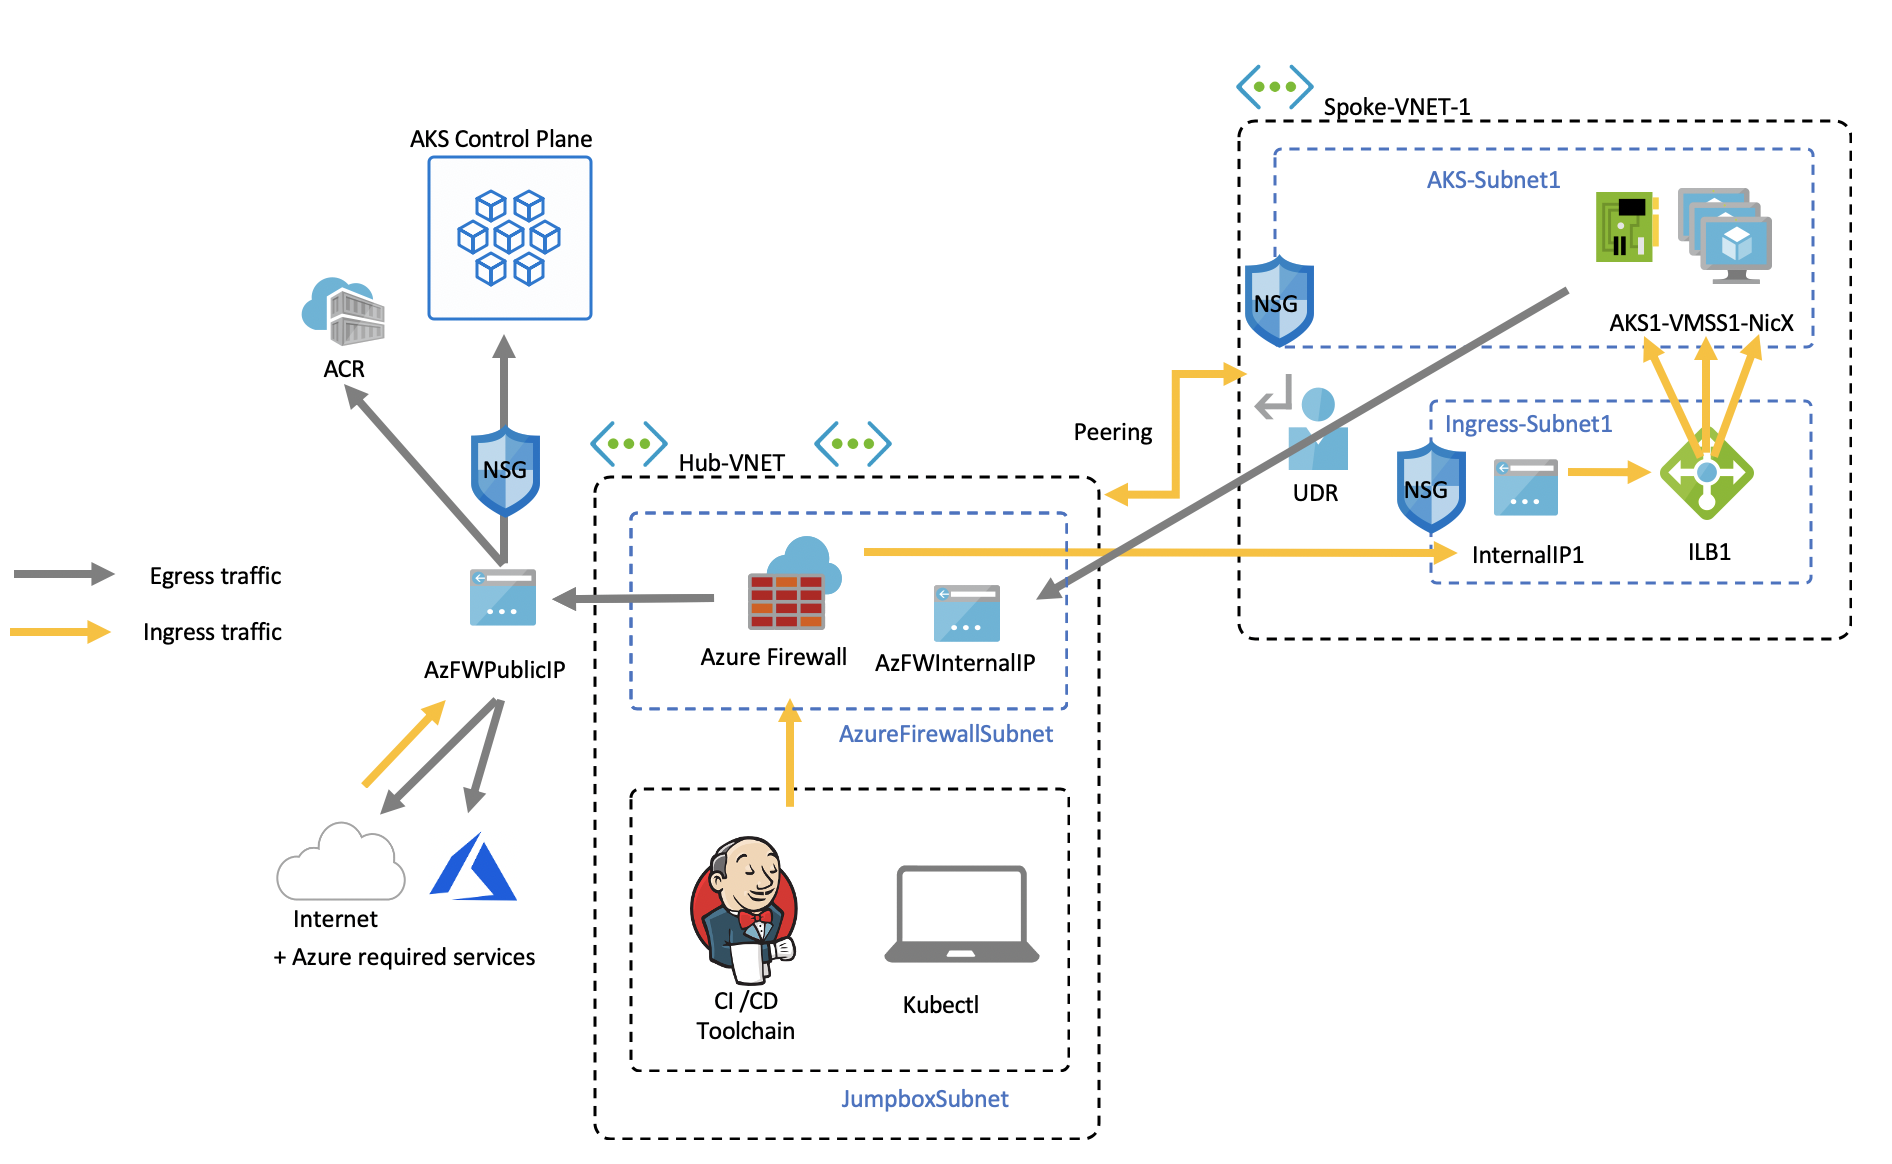
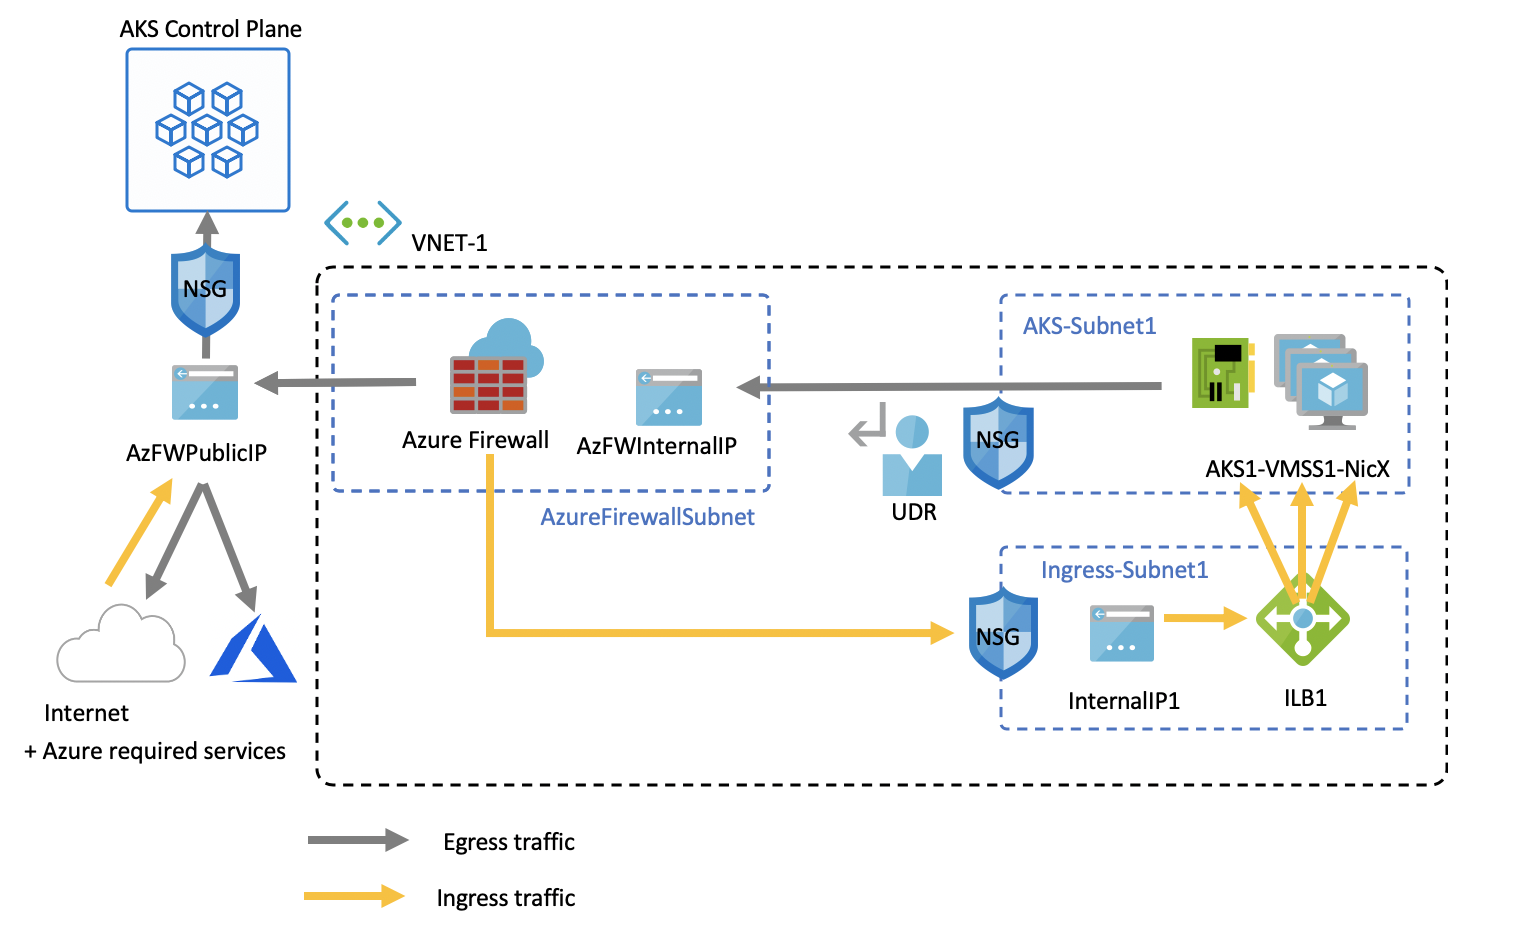
simplified, updated images, finalized conceptual content

diff --git a/articles/aks/egress-outboundtype.md b/articles/aks/egress-outboundtype.md
@@ -88,9 +88,15 @@ Below is a network topology deployed in AKS clusters by default, which use an `o
 
 To illustrate the application of a cluster with outbound type using a user defined route, a cluster can be configured on a virtual network peered with an Azure Firewall.
 
-Azure resources are isolated in dedicated subnets and route inbound traffic from the Azure Firewall to an internal load balancer created with the AKS cluster. Egress from the AKS cluster follows a UDR which defines the next hop to the Azure Firewall. All cluster egress is handled strictly through the firewall.
-
 ![Locked down topology](media/egress-outboundtype/outboundtype-udr.png)
+
+* Ingress is forced to flow through firewall filters
+   * An isolated subnet holds an internal load balancer for routing into agent nodes
+   * Agent nodes are isolated in a dedicated subnet
+* Outbound requests start from agent nodes to the Azure Firewall internal IP using a user defined route
+   * Azure Firewall egresses out of the virtual network from a public IP frontend
+   * Access to the AKS control plane is protected by an NSG, which has enabled the firewall frontend IP address
+   * Access to the public internet or other Azure services flows to and from the firewall frontend IP address
 
 ### Set configuration via environment variables
 
@@ -101,6 +107,7 @@ PREFIX="contosofin"
 RG="${PREFIX}-rg"
 LOC="eastus"
 NAME="${PREFIX}outboundudr"
+AKS_NAME="${NAME}aks"
 ACR_NAME="${NAME}acr"
 VNET_NAME="${PREFIX}vnet"
 AKSSUBNET_NAME="${PREFIX}akssubnet"
@@ -118,18 +125,22 @@ Next, set subscription IDs.
 
 ```azure-cli
 # Get ARM Access Token and Subscription ID - This will be used for AuthN later.
+
 ACCESS_TOKEN=$(az account get-access-token -o tsv --query 'accessToken')
 
 # NOTE: Update Subscription Name
 # Set Default Azure Subscription to be Used via Subscription ID
+
 az account set -s <SUBSCRIPTION_ID_GOES_HERE>
 
 # NOTE: Update Subscription Name for setting SUBID
+
 SUBID=$(az account show -s '<SUBSCRIPTION_NAME_GOES_HERE>' -o tsv --query 'id')
 ```
 
-## Create virtual networks and subnets
-To begin we will provision a virtual network with two separate subnets.
+## Create a virtual network with multiple subnets
+
+To begin we will provision a virtual network with three separate subnets, one for the cluster, one for the firewall, and one for service ingress.
 
 ![Empty network topology](media/egress-outboundtype/empty-network.png)
 
@@ -137,13 +148,15 @@ First, create a resource group to hold all of the resources in this scenario.
 
 ```azure-cli
 # Create Resource Group
+
 az group create --name $RG --location $LOC
 ```
 
 Create a two virtual networks to host the AKS cluster and the Azure Firewall. Each will have their own subnet. Let's start with the AKS network.
 
 ```
-# Dedicated virtual network for AKS cluster
+# Dedicated virtual network with AKS subnet
+
 az network vnet create \
     --resource-group $RG \
     --name $VNET_NAME \
@@ -152,16 +165,15 @@ az network vnet create \
     --subnet-prefix 100.64.1.0/24
 
 # Dedicated subnet for K8s services
+
 az network vnet subnet create \
     --resource-group $RG \
     --vnet-name $VNET_NAME \
     --name $SVCSUBNET_NAME \
     --address-prefix 100.64.2.0/24
-```
 
-Now let's create the Firewall network.
-```
 # Dedicated subnet for Azure Firewall (Firewall name cannot be changed)
+
 az network vnet subnet create \
     --resource-group $RG \
     --vnet-name $VNET_NAME \
@@ -169,11 +181,11 @@ az network vnet subnet create \
     --address-prefix 100.64.3.0/24
 ```
 
-## Create an Azure Firewall with a public endpoint
+## Create and setup an Azure Firewall with a UDR
+
+This section walks through setting up Azure Firewall inbound and outbound rules. The main purpose of the firewall is to enable organizations to set up granular ingress and egress traffic rules into and out of the AKS Cluster.
 
 ![Firewall and UDR](media/egress-outboundtype/firewall-udr.png)
-
-This section walks through setting up Azure Firewall inbound and outbound rules. The main purpose of the firewall is to enable organizations to set up ingress and egress traffic rules for the AKS Cluster.
 
 Create a standard SKU public IP resource which will be used as the Azure Firewall frontend address.
 
@@ -183,19 +195,24 @@ az network public-ip create -g $RG -n $FWPUBLICIP_NAME -l $LOC --sku "Standard"
 
 Register the preview cli-extension to create an Azure Firewall.
 ```azure-cli
-# Install Azure Firewall preview CLI extension
+## Install Azure Firewall preview CLI extension
+
 az extension add --name azure-firewall
 
-# Deploy Azure Firewall
+## Deploy Azure Firewall
+
 az network firewall create -g $RG -n $FWNAME -l $LOC
 ```
 
 The IP address created earlier can now be assigned to the firewall frontend.
 > [!NOTE]
 > Setup of the public IP address to the Azure Firewall may take a few minutes.
+> 
+> If errors are repeatedly received on the below command, delete the existing firewall and public IP and  provision the Public IP and Azure Firewall through the portal at the same time.
 
 ```azure-cli
 ## Configure Firewall IP Config
+
 az network firewall ip-config create -g $RG -f $FWNAME -n $FWIPCONFIG_NAME --public-ip-address $FWPUBLICIP_NAME --vnet-name $VNET_NAME
 ```
 
@@ -203,45 +220,34 @@ When the previous command has succeeded, save the firewall frontend IP address f
 
 ```bash
 ## Capture Firewall IP Address for Later Use
+
 FWPUBLIC_IP=$(az network public-ip show -g $RG -n $FWPUBLICIP_NAME --query "ipAddress" -o tsv)
 FWPRIVATE_IP=$(az network firewall show -g $RG -n $FWNAME --query "ipConfigurations[0].privateIpAddress" -o tsv)
 ```
 
-Now we can create a UDR and route table for the Azure Firewall.
+### Create a UDR with a hop to Azure Firewall
+
+Azure automatically routes traffic between Azure subnets, virtual networks, and on-premises networks. If you want to change any of Azure's default routing, you do so by creating a route table.
+
+Create an empty route table to be associated with a given subnet. This will define the next hop as the Azure Firewall created above. Each subnet can have zero or one route table associated to it.
 
 ```azure-cli
-# Create UDR & Routing Table for Azure Firewall
+# Create UDR and add a route for Azure Firewall
+
 az network route-table create -g $RG --name $FWROUTE_TABLE_NAME
 az network route-table route create -g $RG --name $FWROUTE_NAME --route-table-name $FWROUTE_TABLE_NAME --address-prefix 0.0.0.0/0 --next-hop-type VirtualAppliance --next-hop-ip-address $FWPRIVATE_IP --subscription $SUBID
 ```
 
-### Create a UDR for AKS to hop to Azure Firewall
-
-Azure automatically routes traffic between Azure subnets, virtual networks, and on-premises networks. If you want to change any of Azure's default routing, you do so by creating a route table.
-
-Create a route table for the Azure Firewall to reach the public internet.
-
-```azure-cli
-az network route-table create -g $RG --name $FWROUTE_TABLE_NAME
-```
-
-We can now add a route to each route-table, one for the cluster and one for the firewall. The cluster's route connects the AKS cluster to the Azure Firewall. The firewall's route defines a path to the public internet.
-
-Each subnet can have zero or one route table associated to it.
-
-```azure-cli
-az network route-table route create -g $RG --name $FWROUTE_NAME --route-table-name $FWROUTE_TABLE_NAME --address-prefix 0.0.0.0/0 --next-hop-type VirtualAppliance --next-hop-ip-address $FWPRIVATE_IP
-az network route-table route create -g $RG --name $FWROUTE_NAME_INTERNET --route-table-name $FWROUTE_TABLE_NAME --address-prefix $FWPUBLIC_IP/32 --next-hop-type Internet
-```
-
 To learn more about how to create custom, or user-defined, routes read [virtual network documentation](https://docs.microsoft.com/azure/virtual-network/virtual-networks-udr-overview#user-defined) about how you can override Azure's default system routes or add additional routes to a subnet's route table.
 
-## Examples of adding network firewall rules
+## Adding network firewall rules
 
-> [!IMPORTANT]
-> All egress endpoints must be enabled for access, defined in the [required egress endpoints](egress.md) for AKS. Read this document carefully and add all necessary endpoints for your cluster. Without these endpoints enabled, your cluster cannot operate.
+> [!WARNING]
+> This document shows one example of adding a firewall rule. All egress endpoints defined in the [required egress endpoints](egress.md) must be enabled by application firewall rules for AKS clusters to function. Read this document carefully and add all necessary rules to your firewall. Without these endpoints enabled, your cluster cannot operate.
 
-To show an example rule, a firewall can be added to enable access to Miccrosoft Container Registry (MCR).
+Below is an example of a network and application rule. We add a network rule which allows any protocol, source-address, destination-address, and destination-ports. We also add an application rule for **some** of the endpoints required by AKS.
+
+In a production scenario, you should only enable access to required endpoints for your application and those defined in [AKS required egress](egress.md).
 
 ```
 # Add Network FW Rules
@@ -250,23 +256,44 @@ az network firewall network-rule create -g $RG -f $FWNAME --collection-name 'aks
 
 # Add Application FW Rules
 # IMPORTANT: Add AKS required egress endpoints
-az network firewall application-rule create -g $RG -f $FWNAME --collection-name 'aksfwar' -n 'fqdn' --source-addresses '*' --protocols 'http=80' 'https=443' --target-fqdns '*' --action allow --priority 100
+
+az network firewall application-rule create -g $RG -f $FWNAME \
+    --collection-name 'AKS_Global_Required' \
+    --action allow \
+    --priority 100 \
+    -n 'required' \
+    --source-addresses '*' \
+    --protocols 'http=80' 'https=443' \
+    --target-fqdns \
+        'aksrepos.azurecr.io' \
+        '*blob.core.windows.net' \
+        'mcr.microsoft.com' \
+        '*cdn.mscr.io' \
+        '*.data.mcr.microsoft.com' \
+        'management.azure.com' \
+        'login.microsoftonline.com' \
+        'ntp.ubuntu.com' \
+        'packages.microsoft.com' \
+        'acs-mirror.azureedge.net'
 ```
 
 To learn more about Azure Firewall rules, visit the [Azure Firewall documentation](https://docs.microsoft.com/azure/firewall/overview).
 
-## Associate the AKS subnet to Azure Firewall
+## Associate the AKS Subnet to the firewall
 
-To connect egress from the cluster, the dedicated subnet for the AKS cluster must be associated with the Azure Firewall. This can be done by issuing a command to the virtual network holding both the cluster and firewall to update the route table of the cluster's subnet.
+To associate the cluster with firewall, the dedicated subnet for the cluster's subnet must reference the route table created above. This can be done by issuing a command to the virtual network holding both the cluster and firewall to update the route table of the cluster's subnet.
 
 ```azure-cli
 # Associate AKS Subnet to FW
+
 az network vnet subnet update -g $RG --vnet-name $VNET_NAME --name $AKSSUBNET_NAME --route-table $FWROUTE_TABLE_NAME
 ```
 
 ## Deploy AKS with outbound type of UDR to the existing network
 
-![aks-deploy](media/egress-outboundtype/aks-deployed.png)
+Now an AKS cluster can be deployed into the existing virtual network setup. In order to set a cluster outbound type to user defined routing, an existing subnet must be provided to AKS.
+
+![aks-deploy](media/egress-outboundtype/outboundtype-udr.png)
 
 ### Create a service principal with access to provision inside the existing virtual network
 
@@ -275,11 +302,11 @@ This section walks through creating a Service Principal which will be used by AK
 ```azure-cli
 # Create SP and Assign Permission to Virtual Network
 az ad sp create-for-rbac -n "${PREFIX}sp" --skip-assignment
+```
 
-# ********************************************************************************
-# Take the SP Creation output from above command and fill in Variables accordingly
-# ********************************************************************************
+Now replace the `APPID` and `PASSWORD` below with the service principal appid and service principal password autogenerated by the previous command output. We will reference the VNET resource ID to grant the permissions to the service principal so AKS can deploy resources into it.
 
+```azure-cli
 APPID="<SERVICE_PRINCIPAL_APPID_GOES_HERE>"
 PASSWORD="<SERVICEPRINCIPAL_PASSWORD_GOES_HERE>"
 VNETID=$(az network vnet show -g $RG --name $VNET_NAME --query id -o tsv)
@@ -300,28 +327,26 @@ We will define the outbound type to follow the UDR which exists on the subnet, e
 We will also add the AKS feature for [API server authorized IP ranges](api-server-authorized-ip-ranges.md) to limit API server access to only the firewall's public endpoint. This is denoted in the diagram as the NSG which must be passed to access the control plane. When enabling this feature to limit API server access, your developer tools must use a jumpbox from the firewall's virtual network or you must add all developer endpoints to the authorized IP range.
 
 ```azure-cli
-az aks create -g $RG -n $AKSNAME -l $LOC \
+az aks create -g $RG -n $AKS_NAME -l $LOC \
   --node-count 3 \
-  --network-plugin $PLUGIN --generate-ssh-keys \
-  --network-policy azure \
-  --service-cidr $BASE_ADDRESS.5.0/24 \
-  --dns-service-ip $BASE_ADDRESS.5.10 \
-  --docker-bridge-address 172.17.0.1/16 \
-  --vnet-subnet-id $SUBNETID \
+  --network-plugin azure --generate-ssh-keys \
+  --service-cidr 192.168.0.0/16 \
+  --dns-service-ip 192.168.0.10 \
+  --docker-bridge-address 172.22.0.1/29 \
+  --vnet-subnet-id $AKSSUBNET_NAME \
   --service-principal $APPID \
   --client-secret $PASSWORD \
   --load-balancer-sku standard \
-  --outbound-type userDefinedRouting
-  --api-server-authorized-ip-ranges <INSERT FIREWALL IP RANGE> \
+  --outbound-type userDefinedRouting \
+  --api-server-authorized-ip-ranges $FWPUBLIC_IP
   ```
 
-## Additional considerations
+### Configure the load balancer backend pool with AKS agent nodes
 
-![Locked down topology](media/egress-outboundtype/outboundtype-udr-acr.png)
+As discussed above, AKS automatically configures backend pools when using an outbound type of load balancer. When using user defined routing, this association must be done manually.
 
-To complete the original scenario diagram, additional resources need to be configured. Consider the additional documents below to meet scenario requirements.
-
-### Authorize and connect an Azure Container Registry
+```azure-cli
+```
 
 ### Create and configure additional Kubernetes services
 
